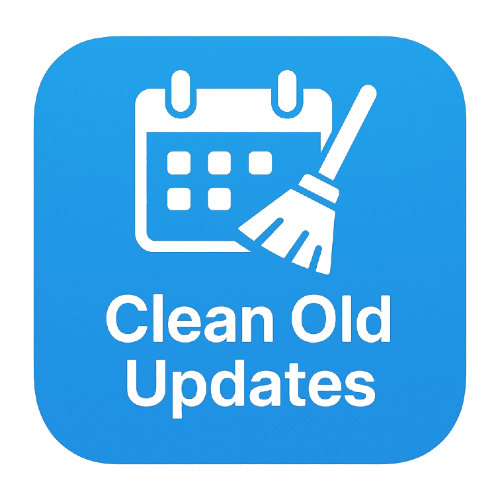
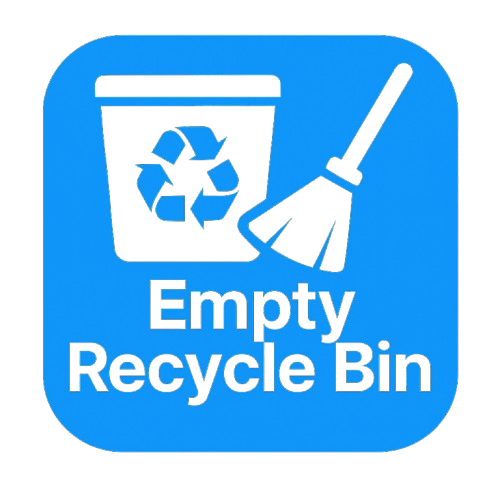
bug fixed

Changed region(s): [[0.06, 0.06, 0.96, 0.93]]

diff --git a/main.js b/main.js
@@ -7,9 +7,9 @@ const si = require('systeminformation');
 let mainWindow;
 function createWindow() {
     mainWindow = new BrowserWindow({
-        width: 1100,
+        width: 1200,
         height: 700,
-        minWidth: 1100,
+        minWidth: 1200,
         minHeight: 700,
         webPreferences: {
             // Restore preload bridge
@@ -68,95 +68,73 @@ ipcMain.handle('defender-run', async (_evt, mode, target) => {
 });
 
 // ── System Cleanup IPC ───────────────────────────────────────────────────────
+
 ipcMain.handle('cleanup-run', (event, action) => {
-    let scriptPath, psArgs;
+    let psArgs;
 
     switch (action) {
         case 'scan':
-            scriptPath = path.join(__dirname, 'scripts', 'systemCleanup.ps1');
+            // call your systemCleanup.ps1 -Scan
             psArgs = [
                 '-NoProfile',
                 '-ExecutionPolicy', 'Bypass',
-                '-File', scriptPath,
-                '-Scan',
-                '-ExportCsv'
+                '-File', path.join(__dirname, 'scripts', 'systemCleanup.ps1'),
+                '-Scan'
             ];
             break;
-        case 'emptyRecycleBin':
-            scriptPath = path.join(__dirname, 'scripts', 'EmptyBin.ps1');
+
+        case 'cleanOldUpdates':
+            // empty the recycle bin
             psArgs = [
                 '-NoProfile',
                 '-ExecutionPolicy', 'Bypass',
-                '-File', scriptPath
+                '-Command', 'Clear-RecycleBin -Force'
             ];
             break;
+
         case 'cleanDownloads':
-            scriptPath = path.join(__dirname, 'scripts', 'test.ps1');
             psArgs = [
                 '-NoProfile',
                 '-ExecutionPolicy', 'Bypass',
-                '-File', scriptPath,
+                '-File', path.join(__dirname, 'scripts', 'systemCleanup.ps1'),
                 '-CleanDownloads'
             ];
             break;
+
         case 'cleanTemp':
-            scriptPath = path.join(__dirname, 'scripts', 'test.ps1');
             psArgs = [
                 '-NoProfile',
                 '-ExecutionPolicy', 'Bypass',
-                '-File', scriptPath,
+                '-File', path.join(__dirname, 'scripts', 'systemCleanup.ps1'),
                 '-CleanTemp'
             ];
             break;
+
         case 'cleanAll':
-            scriptPath = path.join(__dirname, 'scripts', 'test.ps1');
             psArgs = [
                 '-NoProfile',
                 '-ExecutionPolicy', 'Bypass',
-                '-File', scriptPath,
+                '-File', path.join(__dirname, 'scripts', 'systemCleanup.ps1'),
                 '-CleanAll'
             ];
             break;
+
         default:
             throw new Error(`Unknown cleanup action: ${action}`);
     }
 
     return new Promise((resolve, reject) => {
-        const child = spawn('powershell.exe', psArgs, {
-            cwd: __dirname,
-            shell: true
-        });
+        const child = spawn('powershell.exe', psArgs, { shell: true });
         let out = '';
 
-        child.stdout.on('data', chunk => {
-            const text = chunk.toString();
-            // split on newlines so we can handle both PROGRESS and output
-            text.split(/\r?\n/).forEach(line => {
-                if (line.startsWith('PROGRESS:')) {
-                    // send progress (0–100) back to renderer
-                    const pct = parseInt(line.slice('PROGRESS:'.length), 10);
-                    event.sender.send('cleanup-progress', pct);
-                } else if (line.trim() !== '') {
-                    // accumulate any non-progress text
-                    out += line + '\n';
-                }
-            });
-        });
+        child.stdout.on('data', chunk => out += chunk.toString());
+        child.stderr.on('data', chunk => out += chunk.toString());
 
-        child.stderr.on('data', chunk => {
-            const errText = chunk.toString();
-            event.sender.send('cleanup-error', errText);
-            out += errText;
-        });
-
-        child.on('close', code => {
-            event.sender.send('cleanup-done', code);
-            resolve(out);
-        });
-
-        child.on('error', err => reject(err));
+        child.on('close', code => resolve(out.trim()));
+        child.on('error', reject);
     });
 });
+
 
 // ── URL Scanner IPC ───────────────────────────────────────────────────────────
 ipcMain.handle('scan-url', async (_event, url) => {

diff --git a/style.css b/style.css
@@ -14,11 +14,13 @@ body {
     height: 100vh;
 
     background: linear-gradient(to bottom,
-            #000000 0%,
-            /* pure black */
-            #1a0d2d 75%,
-            /* very dark indigo */
-            #3c1361 100%);
+            #0d1117 0%,
+            /* GitHub dark canvas */
+            #161b22 75%,
+            /* slightly deeper dark */
+            #21262d 100%
+            /* dark gray footer background */
+        );
     border-right: 2px solid rgba(0, 0, 0, 0.5);
     border-right: 2px solid rgba(0, 0, 0, 0.5);
 }
@@ -107,11 +109,11 @@ body {
 }
 
 .nav-btn:hover {
-    background: #5e35b143;
+    background-color: #30363d;
 }
 
 .nav-btn.selected {
-    background: #5e35b16d;
+    background-color: #484f58;
     color: #ffffff;
 }
 
@@ -148,11 +150,9 @@ body {
     padding: 20px 30px;
     overflow: auto;
     background: linear-gradient(to bottom,
-            #000000 0%,
-            /* pure black */
-            #1a0d2d 75%,
-            /* very dark indigo */
-            #3c1361 100%);
+            #0d1117 0%,
+            #161b22 75%,
+            #21262d 100%);
     border-right: 2px solid rgba(0, 0, 0, 0.5);
     border-radius: 0 8px 8px 0;
     box-shadow: 0 2px 8px rgba(0, 0, 0, 0.5);
@@ -1444,8 +1444,8 @@ social-links img:hover {
 
 .controls .action img {
     display: block;
-    width: 200px;
-    height: 200px;
+    width: 12vw;
+    min-width: 150px;
     object-fit: contain;
     transition: transform 0.1s;
 }
@@ -1683,8 +1683,8 @@ body {
 
 
 .info-icon {
-    width: 250px;
-    height: 250px;
+    width: 12vw;
+    min-width: 150px;
     margin-right: 10px;
 }
 

diff --git a/preload.js b/preload.js
@@ -13,17 +13,12 @@ contextBridge.exposeInMainWorld('defenderAPI', {
 
 
 contextBridge.exposeInMainWorld('cleanupBridge', {
-    // invoke a cleanup action (scan, cleanAll, etc)
-    run: action => ipcRenderer.invoke('cleanup-run', action),
-
-    // allow cancelling mid-scan/cleanup
-    cancel: () => ipcRenderer.invoke('cleanup-cancel'),
-
-    // hook into progress events
-    onProgress: cb => {
-        ipcRenderer.on('cleanup-progress', (_e, pct) => cb(pct));
-    }
+    run: (action) => ipcRenderer.invoke('cleanup-run', action),
+    onProgress: (cb) => ipcRenderer.on('cleanup-progress', (_e, pct) => cb(pct)),
+    onError: (cb) => ipcRenderer.on('cleanup-error', (_e, msg) => cb(msg)),
+    onDone: (cb) => ipcRenderer.on('cleanup-done', (_e, code) => cb(code))
 });
+
 
 contextBridge.exposeInMainWorld('urlScanner', {
     scan: (url) => ipcRenderer.invoke('scan-url', url)

diff --git a/index.html b/index.html
@@ -103,7 +103,7 @@
                 <section class="quick-start">
                     <h2>🚀 Getting Started</h2>
                     <ul>
-                        <li>🔄 Update your definitions in Malware Defense.</li>
+                        <li>🔄 Check your system for danger.</li>
                         <li>🧹 Run a one-click cleanup to reclaim space.</li>
                         <li>🔒 Scan URLs before you browse the web.</li>
                         <li>📊 Check System Health anytime.</li>
